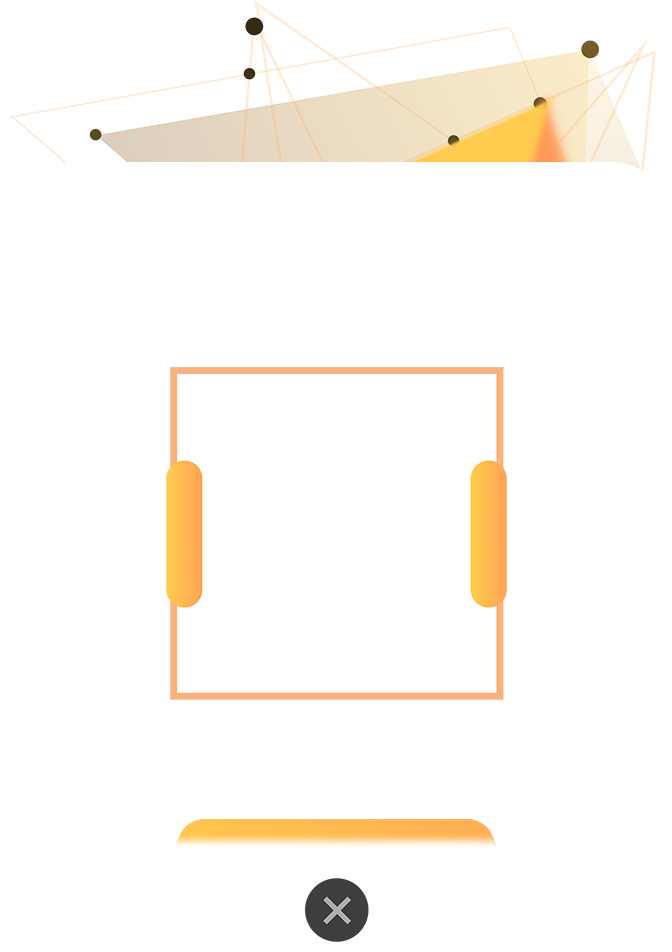
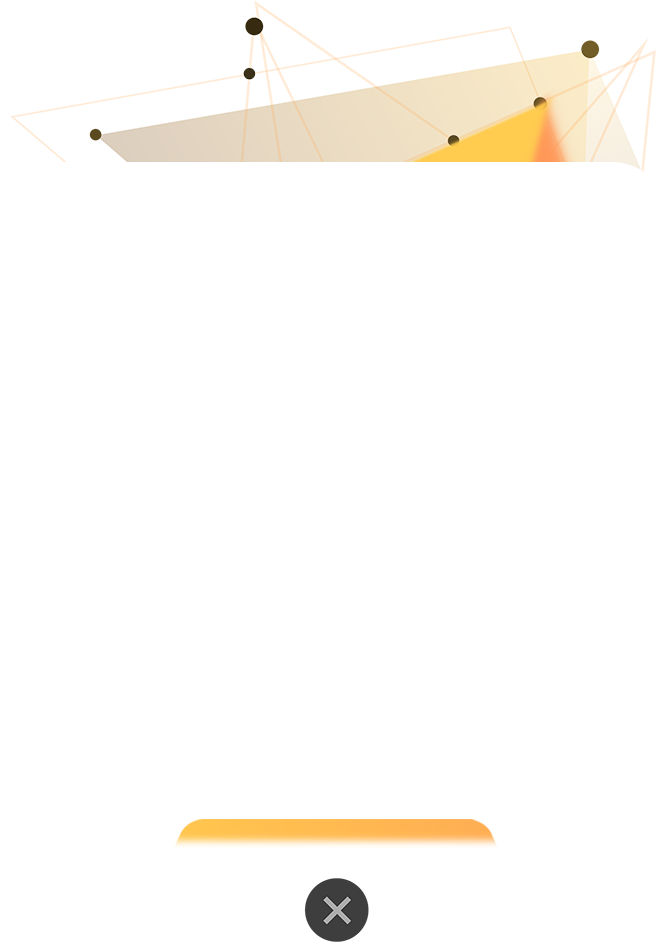
- [x] 详情页面白色 - [x] 右侧按钮下方直接弹开二维码 - [x] 右侧按钮中间靠下 - [x] 二维码小一点 - [x] 详情页分割线 选购按钮一条线 - [x] 增加商品到库存后不能添加样式 - [x] 详情名称长度限制 故障页改回只要发现status=0就直接进入 css和js版本号改为1.04

Changed region(s): [[0.25, 0.3655, 0.7812, 0.7616]]

diff --git a/mfsj_app/mfsj.css b/mfsj_app/mfsj.css
@@ -88,6 +88,9 @@ body {
   overflow: hidden;
   padding-bottom: 6em;
 }
+#mfsj-container.detail {
+  background-color: white;
+}
 #mfsj-container .gap {
   height: 50px;
 }
@@ -230,6 +233,9 @@ body {
 #mfsj-container .buy-pane-common > a.add {
   background-color: #f6c870;
 }
+#mfsj-container .buy-pane-common > a.add.max-count {
+  background-color: #b5b5b6;
+}
 #mfsj-container .buy-pane-common > a.remove {
   border: solid 1px gray;
 }
@@ -289,6 +295,9 @@ body {
 }
 #mfsj-container div.items > div.item > div.infos > div.title {
   font-size: 1.1em;
+  overflow: hidden;
+  text-overflow: ellipsis;
+  white-space: nowrap;
 }
 #mfsj-container div.items > div.item > div.infos > div.price > em {
   font-size: 1.4em;
@@ -318,6 +327,9 @@ body {
 }
 #mfsj-container div.items > div.item > div.infos > div.buy-pane > a.add {
   background-color: #f6c870;
+}
+#mfsj-container div.items > div.item > div.infos > div.buy-pane > a.add.max-count {
+  background-color: #b5b5b6;
 }
 #mfsj-container div.items > div.item > div.infos > div.buy-pane > a.remove {
   border: solid 1px gray;
@@ -400,7 +412,7 @@ body {
   font-size: 0.6em;
 }
 #mfsj-container .item-details > div.infos > div.price-panel > div.buy-pane {
-  font-size: 1.2em;
+  font-size: 1.1em;
   position: absolute;
   right: 5px;
   bottom: 1em;
@@ -420,6 +432,9 @@ body {
 }
 #mfsj-container .item-details > div.infos > div.price-panel > div.buy-pane > a.add {
   background-color: #f6c870;
+}
+#mfsj-container .item-details > div.infos > div.price-panel > div.buy-pane > a.add.max-count {
+  background-color: #b5b5b6;
 }
 #mfsj-container .item-details > div.infos > div.price-panel > div.buy-pane > a.remove {
   border: solid 1px gray;
@@ -504,9 +519,9 @@ body {
 }
 #mfsj-container .qr-dialog div.qr-content div.qr {
   position: absolute;
-  width: 47%;
-  margin-top: 55.5%;
-  margin-left: 26.7%;
+  width: 27%;
+  margin-top: 63%;
+  margin-left: 37%;
 }
 #mfsj-container .qr-dialog div.qr-content div.qr > img {
   width: 100%;
@@ -674,7 +689,7 @@ body {
 #mfsj-container div.pay-menu {
   position: fixed;
   right: 0;
-  top: 60%;
+  top: 50%;
   width: 15%;
   z-index: 11;
 }
@@ -687,6 +702,7 @@ body {
 }
 #mfsj-container div.pay-menu > img {
   width: 100%;
+  display: block;
 }
 #mfsj-container div.pay-menu > span.total-count {
   position: absolute;
@@ -791,6 +807,9 @@ body {
 }
 #mfsj-container div.machine-footer div.cart-content > div.item-list > div.cart-item > div.stock > div.buy-pane > a.add {
   background-color: #f6c870;
+}
+#mfsj-container div.machine-footer div.cart-content > div.item-list > div.cart-item > div.stock > div.buy-pane > a.add.max-count {
+  background-color: #b5b5b6;
 }
 #mfsj-container div.machine-footer div.cart-content > div.item-list > div.cart-item > div.stock > div.buy-pane > a.remove {
   border: solid 1px gray;

diff --git a/mfsj_app/index.html b/mfsj_app/index.html
@@ -8,12 +8,12 @@
     <meta name="apple-mobile-web-app-capable" content="yes"/>
     <meta name="format-detection" content="telephone=no"/>
     <link href="https://cdnjs.cloudflare.com/ajax/libs/element-ui/2.3.5/theme-chalk/index.css" rel="stylesheet">
-    <link href="mfsj.css?v=1.03" rel="stylesheet">
+    <link href="mfsj.css?v=1.04" rel="stylesheet">
     <title>膜法世家</title>
 </head>
 <body>
 
-<div id="mfsj-container" @click="everyClick()">
+<div id="mfsj-container" @click="everyClick()" :class="[ view ]">
     <el-dialog :append-to-body="true"
                :fullscreen="true"
                title="修改机器信息"
@@ -134,7 +134,7 @@
                         </div>
                         <div class="title">{{item.title}}</div>
                         <div class="price"><em>{{item.salePrice}}<span>元</span></em>
-                            <!--<del>{{item.price}}<span>元</span></del>-->
+                            <del>{{item.price}}<span>元</span></del>
                         </div>
 
                         <div class="buy-pane">
@@ -143,7 +143,7 @@
                                 <i class="el-icon-minus"></i>
                             </a>
                             <span class="buy-count">{{item.buyCount}}</span>
-                            <a class="add" @click.stop.prevent="addItem(item)" href="javascript:">
+                            <a class="add" @click.stop.prevent="addItem(item)" :class="{ 'max-count' : item.buyCount == item.stock }" href="javascript:">
                                 <i class="el-icon-plus"></i>
                             </a>
                             <div class="stock">库存{{item.stock}}份</div>
@@ -158,10 +158,11 @@
     </a>
 
 
-    <div class="pay-menu" v-show="!showCartContent" @click="showCartContent = true">
-        <img src="pay-menu.png">
+    <div class="pay-menu" v-show="!showCartContent && cartItems.length > 0" >
+        <img src="pay-menu-up.png" @click="showCartContent = true">
+        <img src="pay-menu-down.png" @click="showQR()">
         <span class="total-count">{{totalCount}}</span>
-        <div class="price">¥{{totalSalePrice}}</div>
+        <div class="price" >¥{{totalSalePrice}}</div>
     </div>
     <div class="list-cover" v-show="showCartContent" @click="showCartContent = false"></div>
     <div class="machine-footer" v-show="showCartContent">
@@ -289,6 +290,6 @@
 <script src="https://cdnjs.cloudflare.com/ajax/libs/element-ui/2.4.0/index.js"></script>
 <script src="https://cdnjs.cloudflare.com/ajax/libs/jquery/3.3.1/jquery.min.js"></script>
 <script src="qrcode.min.js"></script>
-<script src="dist/main.js?v=1.03"></script>
+<script src="dist/main.js?v=1.04"></script>
 </body>
 </html>

diff --git a/mfsj_app/dist/main.js b/mfsj_app/dist/main.js
@@ -250,6 +250,9 @@ var vm = new Vue({
 
         deliveryOrderStatus: 0,
         orderStatusDic: {
+            "-30": "取消",
+            "-20": "异常",
+            "-10": "缺货",
             "0": '已创建',
             "1": '待支付',
             "11": '已扫描',
@@ -483,18 +486,18 @@ var vm = new Vue({
                     if (resp.data.status > 0) {
                         _this6.deviceInfo = resp.data;
                         _this6.machineError = false;
-                        checkMachineFail = 0;
+                        // checkMachineFail = 0;
                     } else {
-                        checkMachineFail++;
-                        if (checkMachineFail > 10) {
-                            _this6.machineError = true;
-                        }
+                        // checkMachineFail++;
+                        // if (checkMachineFail > 3) {
+                        _this6.machineError = true;
+                        // }
                     }
                 }).catch(function (resp) {
-                    checkMachineFail++;
-                    if (checkMachineFail > 10) {
-                        _this6.machineError = true;
-                    }
+                    // checkMachineFail++;
+                    // if (checkMachineFail > 3) {
+                    _this6.machineError = true;
+                    // }
                 });
             }
         },
@@ -591,6 +594,9 @@ var vm = new Vue({
         showQR: function showQR() {
             var _this9 = this;
 
+            if (this.cartItems.length == 0) {
+                return;
+            }
             this.qrImage = false;
             this.payOrderId = null;
             HandleBag.clear(this.qrBag);
@@ -648,7 +654,7 @@ var vm = new Vue({
                             _this9.qrTimer = Math.round(qrWaitAfterScanuration / 1000);
                             scaned = true;
                         }
-                        if (_.includes([2, 10, 20, 40], r.data)) {
+                        if (_.includes([-30, -20, -10, 2, 10, 20, 40], r.data)) {
                             //已支付
                             _this9.qrVisible = false;
                             _this9.toDeliveryView();

diff --git a/mfsj_app/mfsj.less b/mfsj_app/mfsj.less
@@ -75,6 +75,9 @@ body {
 	overflow: hidden;
 	padding-bottom: 6em;
 	//background-color: #323032;
+	&.detail {
+		background-color:white;
+	}
 	.gap {
 		height: 50px;
 	}
@@ -220,6 +223,9 @@ body {
 			background-color: white;
 			&.add {
 				background-color: #f6c870;
+				&.max-count{
+					background-color: #b5b5b6;
+				}
 			}
 			&.remove {
 				border: solid 1px gray;
@@ -279,7 +285,9 @@ body {
 				> div.title {
 					//height: 3em;
 					font-size: 1.1em;
-
+					overflow: hidden;
+					text-overflow: ellipsis;
+					white-space: nowrap;
 				}
 				> div.price {
 					//height: 1.6em;
@@ -380,7 +388,7 @@ body {
 					}
 				}
 				> div.buy-pane {
-					font-size: 1.2em;
+					font-size: 1.1em;
 					position: absolute;
 					right: 5px;
 					bottom: 1em;
@@ -500,9 +508,9 @@ body {
 			}
 			div.qr {
 				position: absolute;
-				width: 47%;
-				margin-top: 55.5%;
-				margin-left: 26.7%;
+				width: 27%;
+				margin-top: 63%;
+				margin-left: 37%;
 				> img {
 					width: 100%;
 				}
@@ -670,7 +678,7 @@ body {
 	div.pay-menu {
 		position: fixed;
 		right: 0;
-		top: 60%;
+		top: 50%;
 		width: 15%;
 		z-index: 11;
 		> div.price {
@@ -682,6 +690,7 @@ body {
 		}
 		> img {
 			width: 100%;
+			display: block;
 		}
 		> span.total-count {
 			position: absolute;
